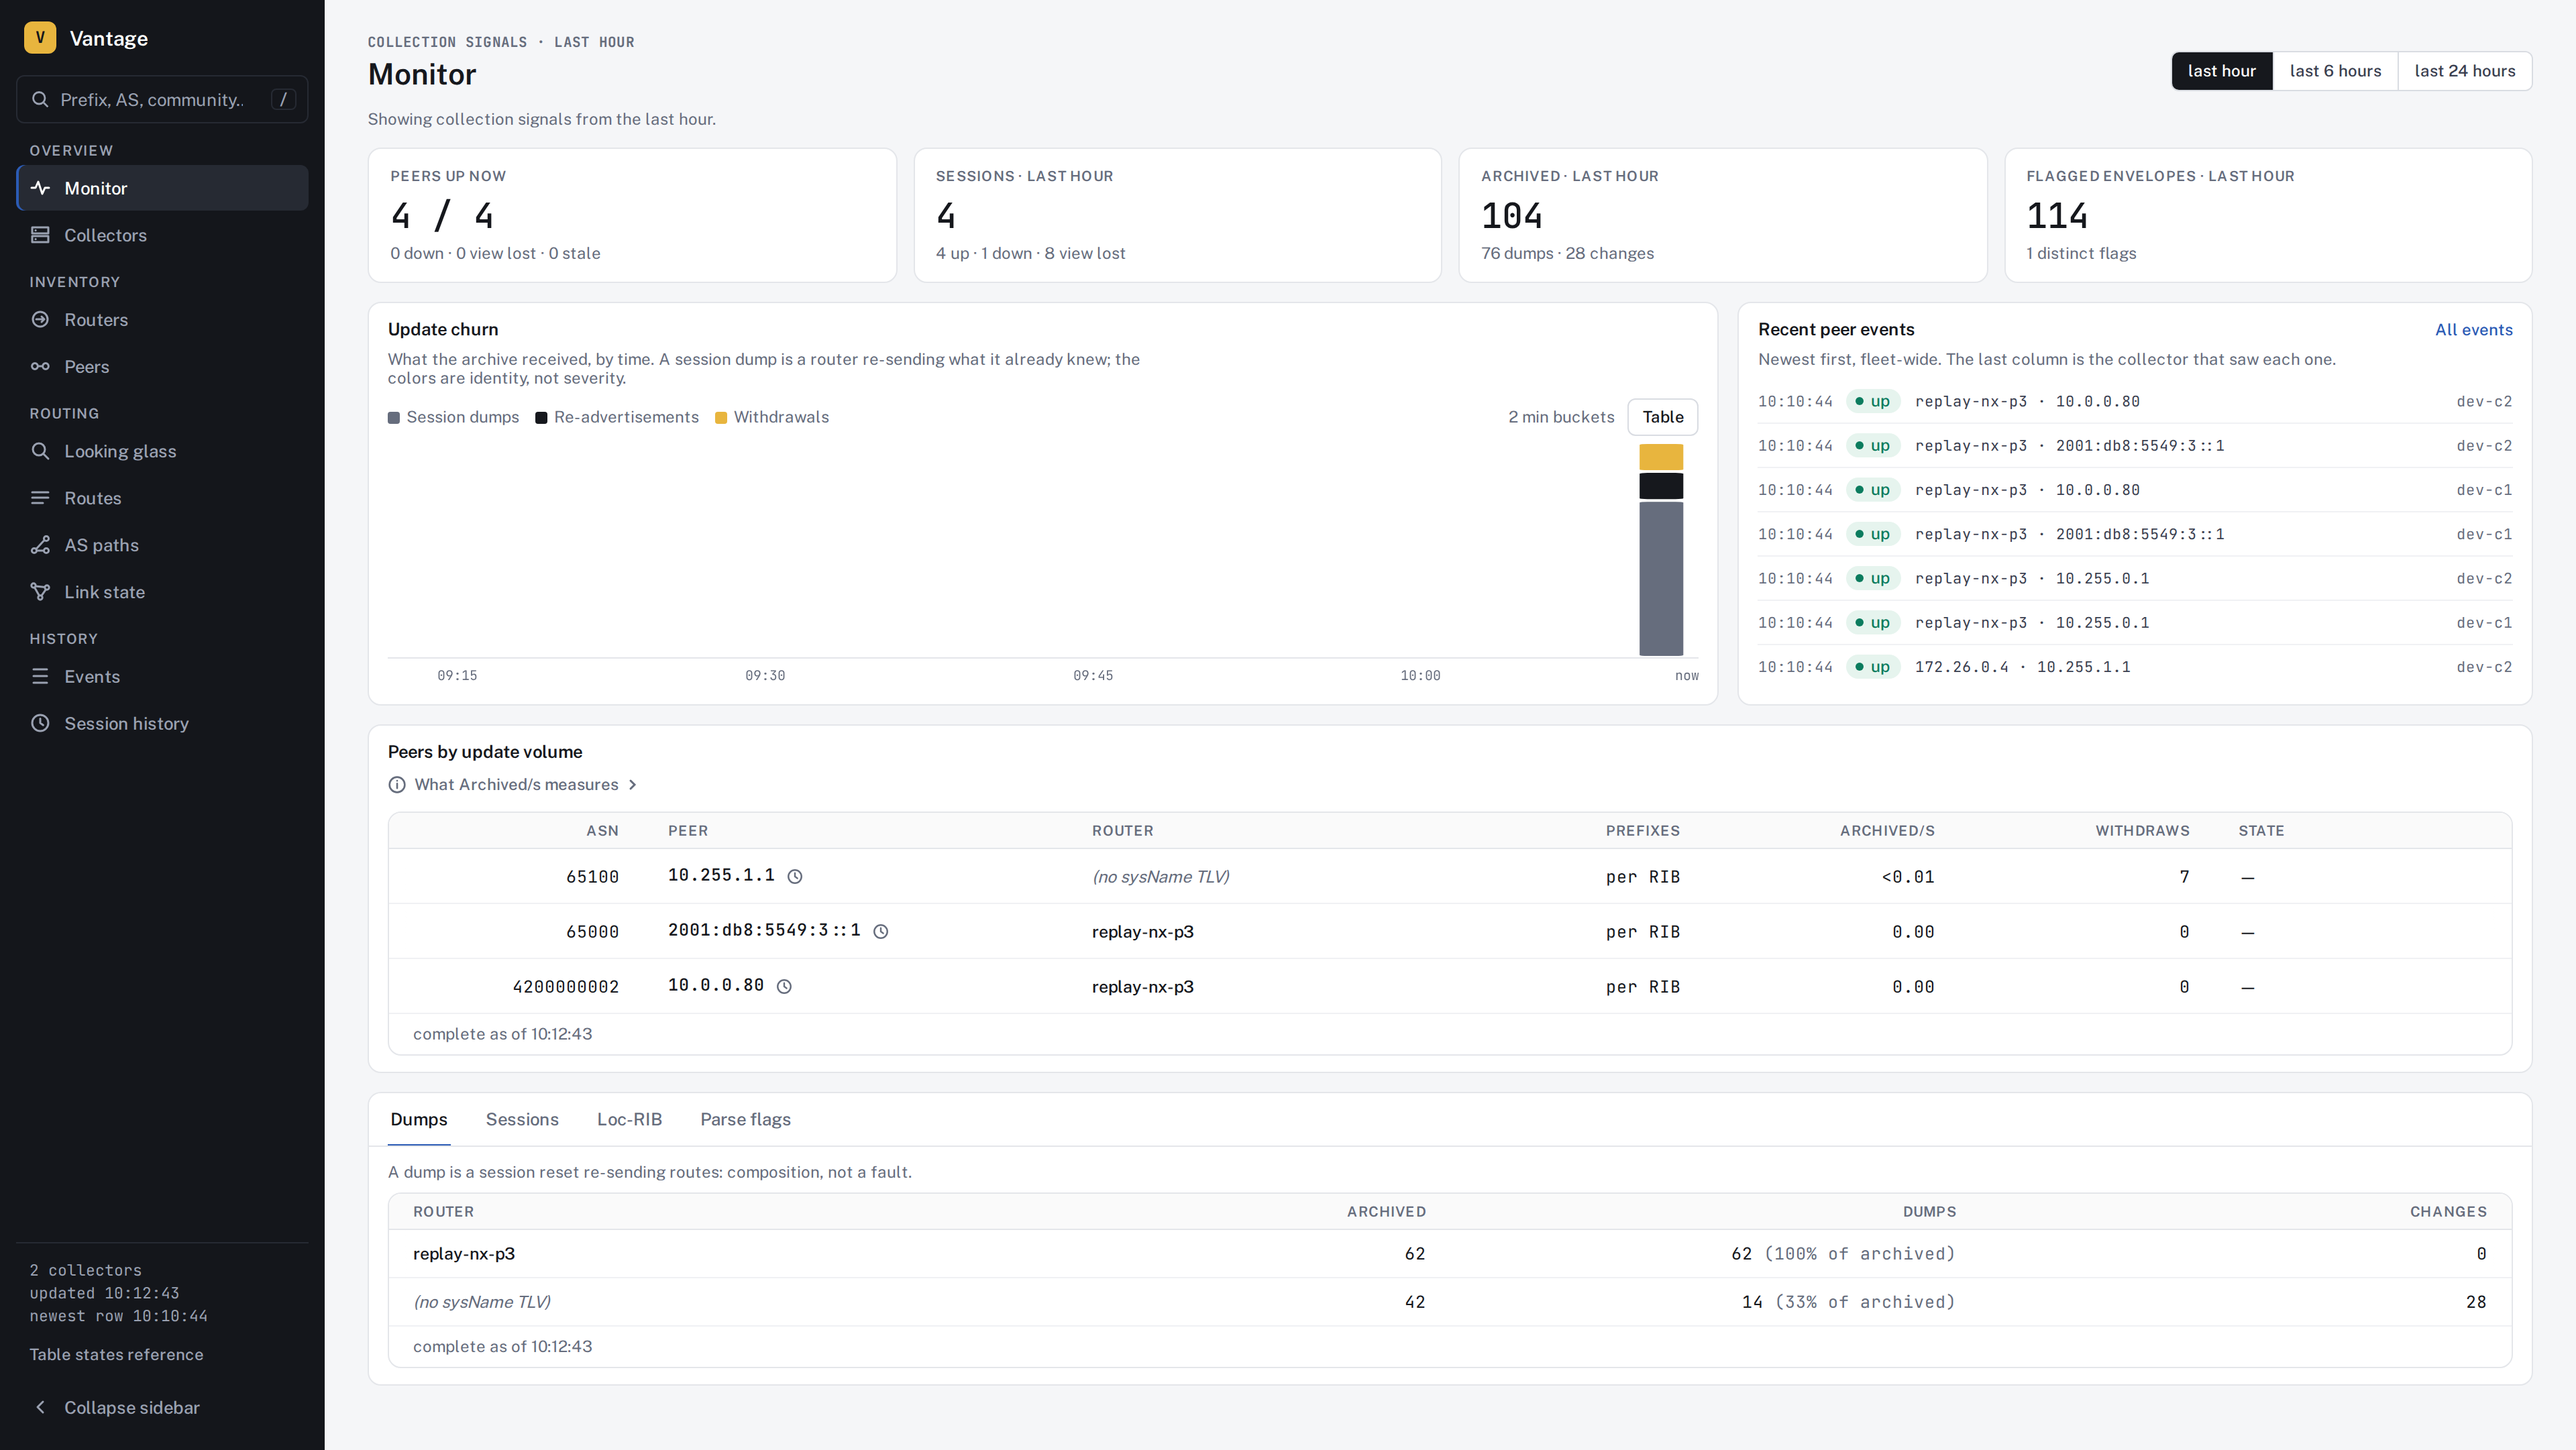
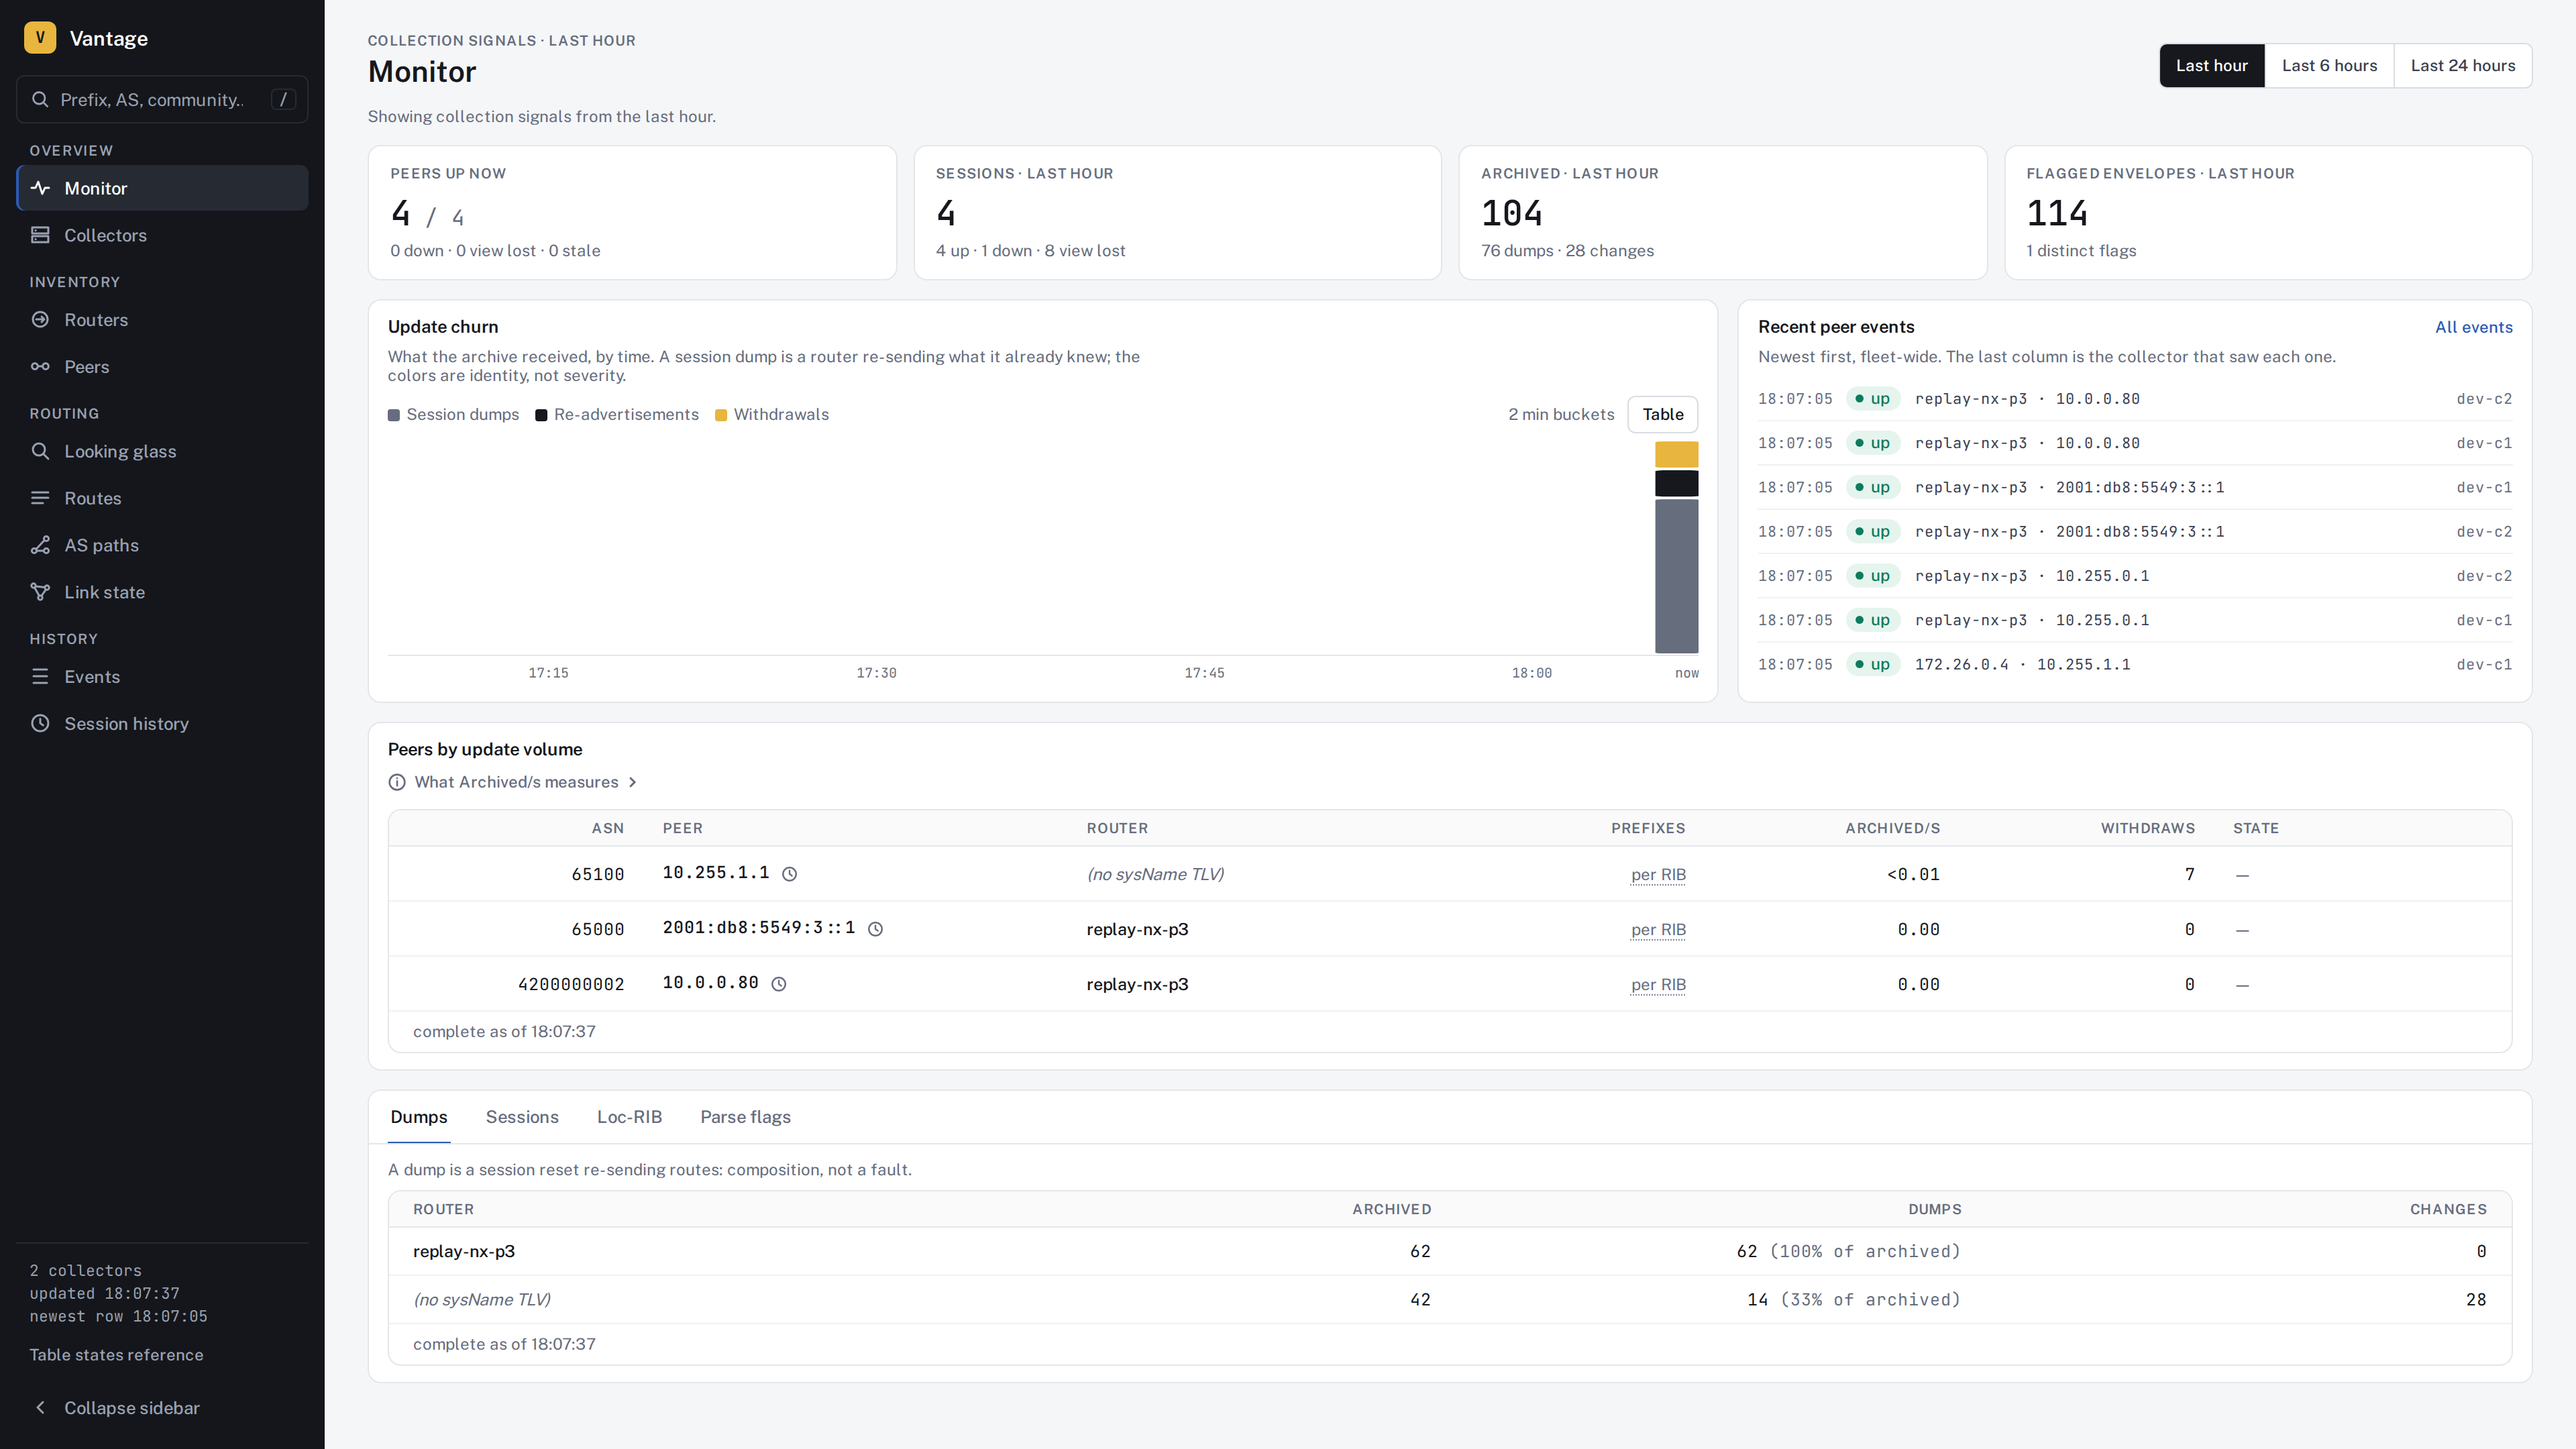
Docs: recapture screenshots of the current UI
All eleven images in docs/images re-shot with ui/scripts/capture-screens.ts
against the dev stack's API serving the bundle built from main, so the
README shows the UI after #55–#58 rather than before #51's redesign.

README alt text that described an older lab dataset or the old Link state
and Peer detail screens now matches what each image shows.

diff --git a/README.md b/README.md
@@ -33,7 +33,7 @@ limits.**
   than passed off as current or silently dropped.
 - An empty chart says it has no rows instead of rendering as a gap.
 
-![One router's link-state view: seven nodes and twenty adjacency directions drawn as a topology graph](docs/images/link-state.png)
+![One router's link-state view: four IGP topologies (OSPFv2, IS-IS L2, IS-IS L1, OSPFv3), each drawn as its own graph](docs/images/link-state.png)
 
 *`nx-p3`'s own link-state database — 7 nodes, 20 adjacency directions over 22
 advertised links, 27 prefixes over 16 networks, ospfv2 area 0. Each curve is
@@ -75,7 +75,7 @@ cross-collector arithmetic is easy to get wrong and expensive to notice.
 
 ### 3. Peers — the fleet at a glance
 
-![The peers table: 35 rows with state, routes, up-since and churn columns](docs/images/peers.png)
+![The peers table: eight rows with state, routes, up-since and churn columns](docs/images/peers.png)
 
 Every BGP peer every collector can see, 35 rows here across all routers and
 both collectors, with state (`up`, `down`, `view lost`, `stale`), a
@@ -152,14 +152,14 @@ as a quiet feed.*
 Both collectors' events appear, with the Collector column saying which saw
 each — the walk is not pinned to either.*
 
-![The routers table: fifteen routers across nineteen router-and-collector rows](docs/images/routers.png)
+![The routers table: two routers across four router-and-collector rows](docs/images/routers.png)
 
 *Routers: 15 routers across 19 (router, collector) rows — four of them
 dual-homed to both collectors, which is how the cross-collector counting
 above gets exercised for real rather than against fixtures. A router that
 sent no sysName TLV is labeled as such rather than given a guessed name.*
 
-![Peer detail with four panels showing explicit empty states](docs/images/peer-detail.png)
+![Peer detail: route and session tiles, session facts, recent session history, update churn and the prefixes that churned most](docs/images/peer-detail.png)
 
 *Peer detail, and the most useful thing in this picture is the empty space.
 No peer shown here is both route-rich and session-active, so four panels
